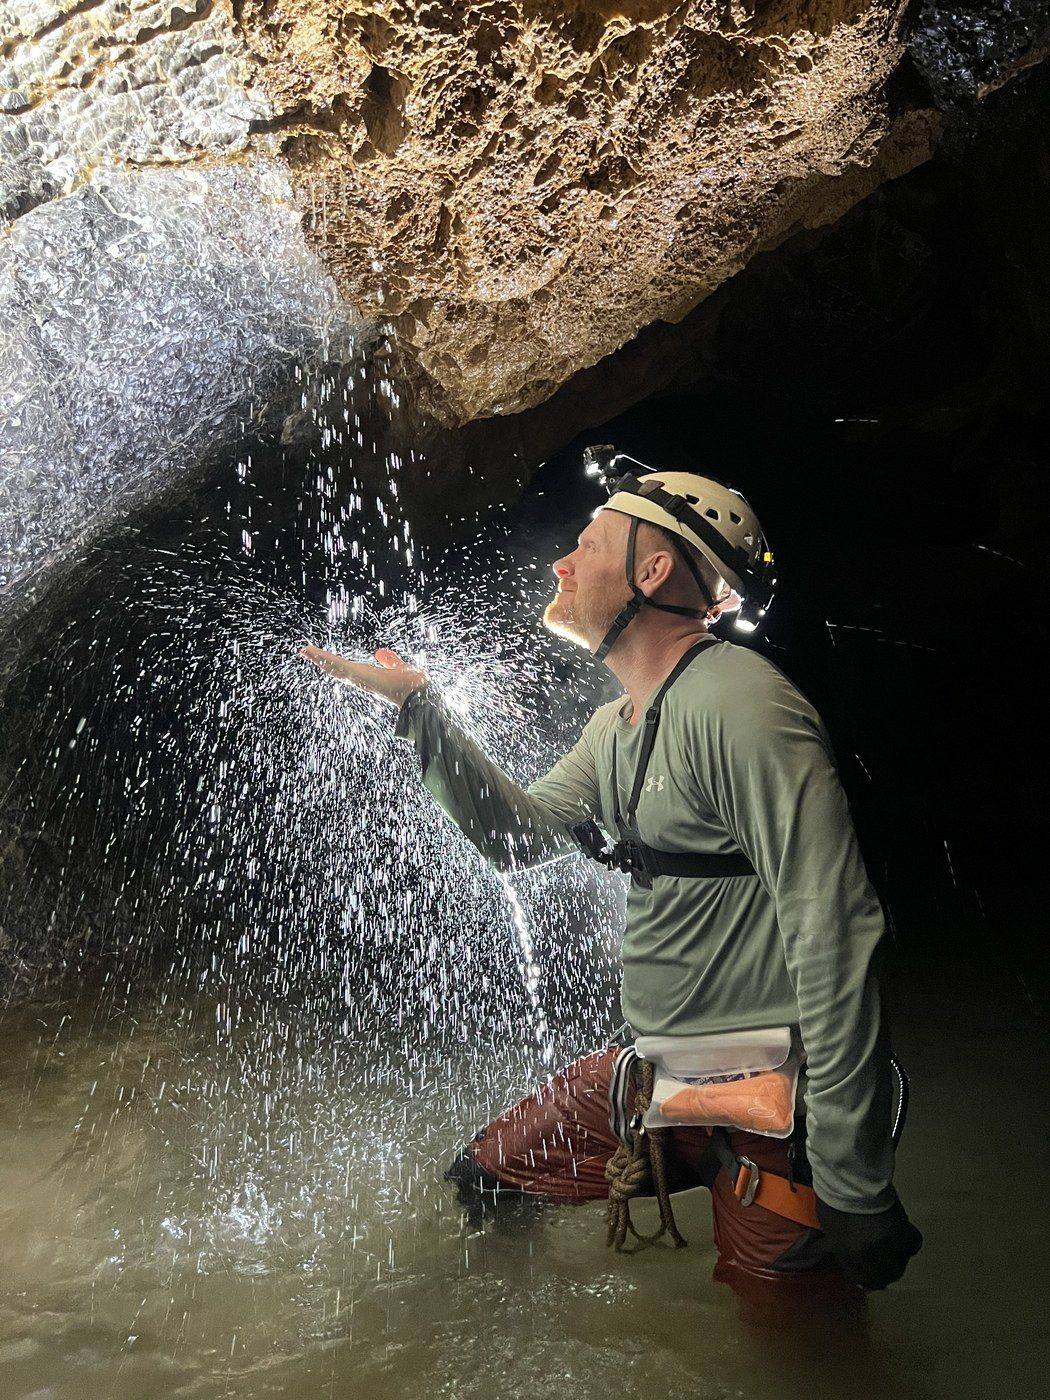
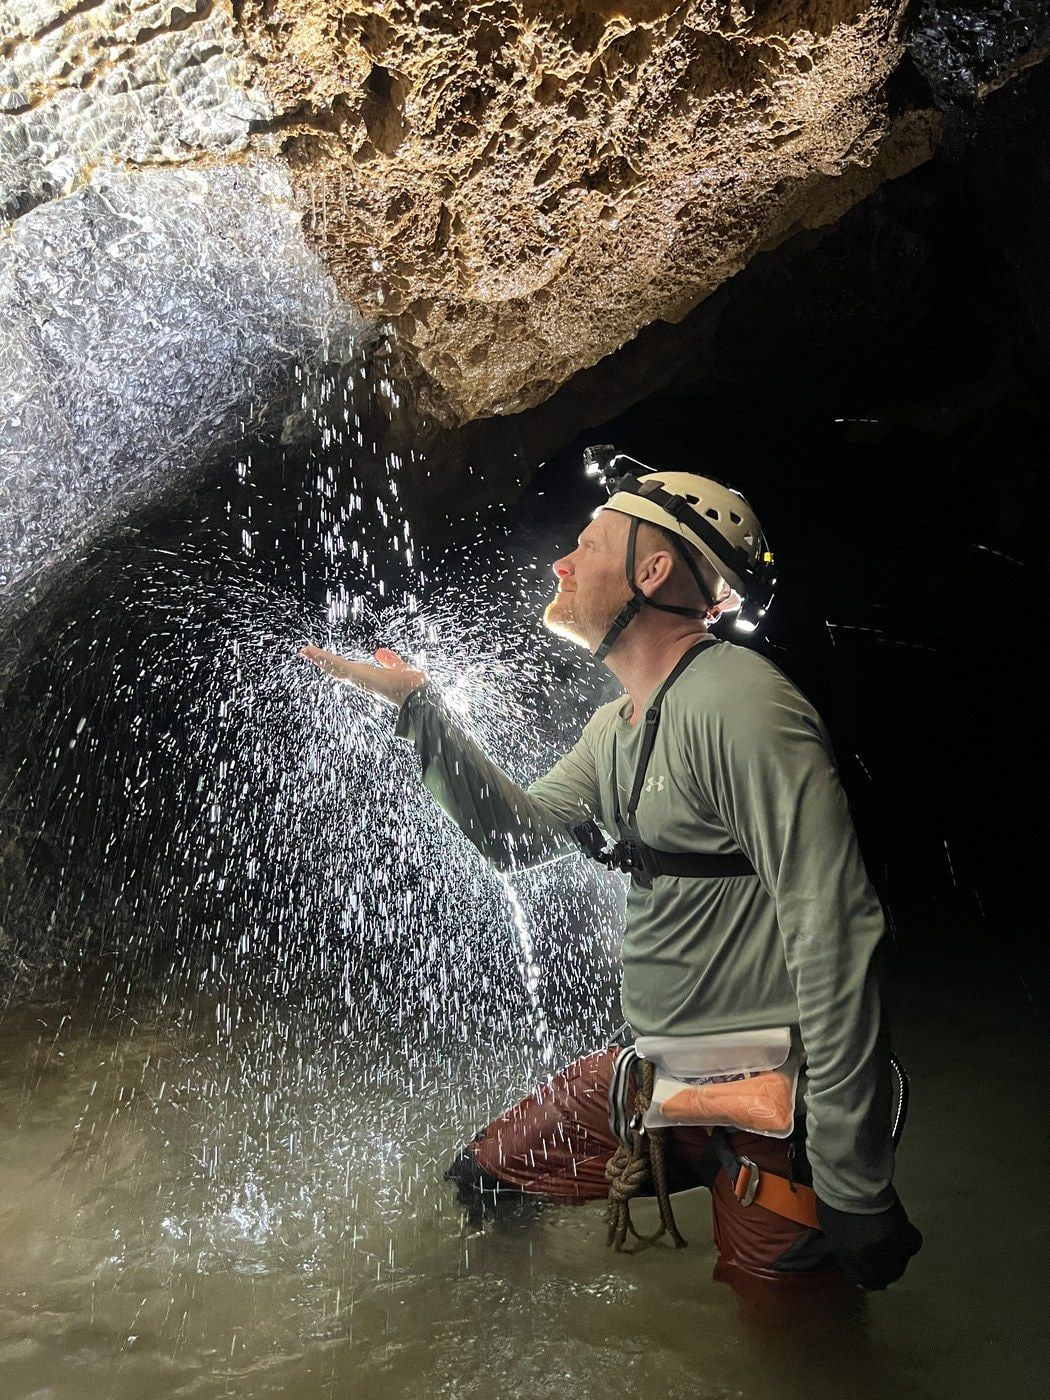
Reduce public personal data exposure

diff --git a/src/content/blog/benefits-maximizer.md b/src/content/blog/benefits-maximizer.md
@@ -12,17 +12,17 @@ Most employees in Canada use **30-40% of the benefits their employer pays for.**
 - Brokers don't push optimization - their incentive is selling new plans, not maximizing existing ones
 - "I'll figure it out later" turns into December, then it's gone
 
-I've been building a personal AI assistant called **Life OS** for the past year. Python, Anthropic Claude API, runs on my Windows laptop 24/7, talks to me through Telegram and WhatsApp. 100+ tools across 20 Python modules. It tracks my meals, medications, workouts, and finances. It writes to my Obsidian vault. It sends a morning briefing every day at 6:30.
+I've been building a personal AI assistant called **Life OS** for the past year. Python, LLM APIs, 100+ tools across 20 Python modules. It helps organize private logs, notes, scheduling, finance context, health context, and daily decisions without putting the raw data on this site.
 
 A few weeks ago I asked it a simple question: *"Audit my workplace benefits. Tell me what I'm missing."*
 
 Thirty minutes of conversation later it had:
 
 1. Parsed my 50-page employee benefits booklet
-2. Read my full claims history from the GreenShield+ portal screenshots I uploaded
+2. Read claim-history screenshots I provided
 3. Built a complete YTD usage tracker for every bucket
 4. Identified ~$8,500 of unused annual benefits - most of which I had no idea I had
-5. Walked me through filing the Garmin watch + Samsung tablet I'd already bought as a $900 Personal Wellness Account claim
+5. Walked me through filing eligible purchases I'd already made as a $900 wellness-account claim
 
 Net of tax: roughly $600 in my bank account, for two receipts I'd forgotten I had.
 
@@ -34,7 +34,7 @@ That session also surfaced benefit categories I genuinely should have known abou
 - **$150 home health-device coverage** available every 5 years
 - **$130 annual recovery-device coverage** sitting unused
 
-It matched unused benefits against my actual life context - health, age, training, family history, and purchases I had already made - without forcing me to read the booklet like a lawyer.
+It matched unused benefits against my actual life context and eligible purchases without forcing me to read the booklet like a lawyer.
 
 ## Why this works as a service
 
@@ -43,7 +43,7 @@ The pattern is repeatable:
 1. **Read the plan booklet** - extract every cap, percentage, and exclusion
 2. **Pull the claims history** - see what's already used vs available
 3. **Build a YTD usage tracker** - surface unused buckets with deadlines
-4. **Match against personal context** - life stage, health context, purchases, training, family history, and deadlines
+4. **Match against personal context** - life stage, relevant needs, purchases, and deadlines
 5. **Recommend specific high-value claims** - not vague "you may be eligible" advice, but concrete actions to file next
 
 Most insurance carriers in Canada use similar plan structures (Green Shield, Sun Life, Manulife, Canada Life, Blue Cross cover ~80% of the market). The booklets are dense but the patterns are repeatable. A specialized AI agent can deliver this audit in 30 minutes - work that would take a human 6-10 hours.

diff --git a/src/content/blog/golf-caddy-module.md b/src/content/blog/golf-caddy-module.md
@@ -5,23 +5,23 @@ pubDate: 2026-06-02
 tags: ["life-os", "golf", "ai-agents", "case-study"]
 ---
 
-Friday I'm playing nine holes at Confederation Park. By August my golf app subscription expires. So today I built something to replace the part that actually matters.
+I had a nine-hole round coming up and my golf app subscription was on the way out. So I built something to replace the part that actually matters.
 
 I can talk to my sunglasses, and my AI bot logs every shot for me. No phone. No tapping. Just play.
 
 ## How it works
 
-I wear Meta Vanguard sunglasses — they have a microphone and a speaker. For the past year I've been building a personal AI assistant called **Life OS** that lives on my laptop and runs my whole life: meals, workouts, finances, calendar.
+I use a voice-enabled wearable with a microphone and speaker. For the past year I've been building a personal AI assistant called **Life OS** that helps organize private logs, notes, scheduling, and day-to-day decisions.
 
-Adding golf meant teaching the bot a few new tricks. Now during a round I can say things like:
+Adding golf meant teaching the bot a few new tricks. Now during a round I can say short commands like:
 
-> "Hey Meta, send WhatsApp to Life OS Bot, **shot driver.**"
+> "Shot driver."
 > *Driver logged, 1 stroke.*
 >
-> "Hey Meta, send WhatsApp to Life OS Bot, **took a putt.**"
+> "Took a putt."
 > *1 putt, 3 total.*
 >
-> "Hey Meta, send WhatsApp to Life OS Bot, **complete hole, 4 with 2 putts.**"
+> "Complete hole, 4 with 2 putts."
 > *Hole 1 bogey logged. Hole 2 next.*
 
 At the end of the round, the bot writes a full scorecard to my notes — including which club I used on every shot.
@@ -40,11 +40,11 @@ The fix was rewriting the bot's instructions to say *"call the tool first, every
 
 Other golf apps know what a typical golfer does. Mine knows what *I* do.
 
-By August, after a round, I'll be able to ask my bot *"why was my driver short today?"* — and get back something like *"your sleep score was 64, HRV was down 22%, body battery started at 47."*
+Eventually, after a round, I'll be able to ask my bot *"why was my driver short today?"* and get back a useful answer based on recovery, fatigue, and recent training context.
 
-No golf app on earth can answer that. They don't have my Garmin data. They don't know me. Mine does.
+Most golf apps know what a typical golfer does. Mine can learn from my own patterns without publishing the private inputs.
 
-Friday's round is just the first batch of data. Every round makes it smarter.
+The first round is just the first batch of data. Every round makes it smarter.
 
 ---
 
